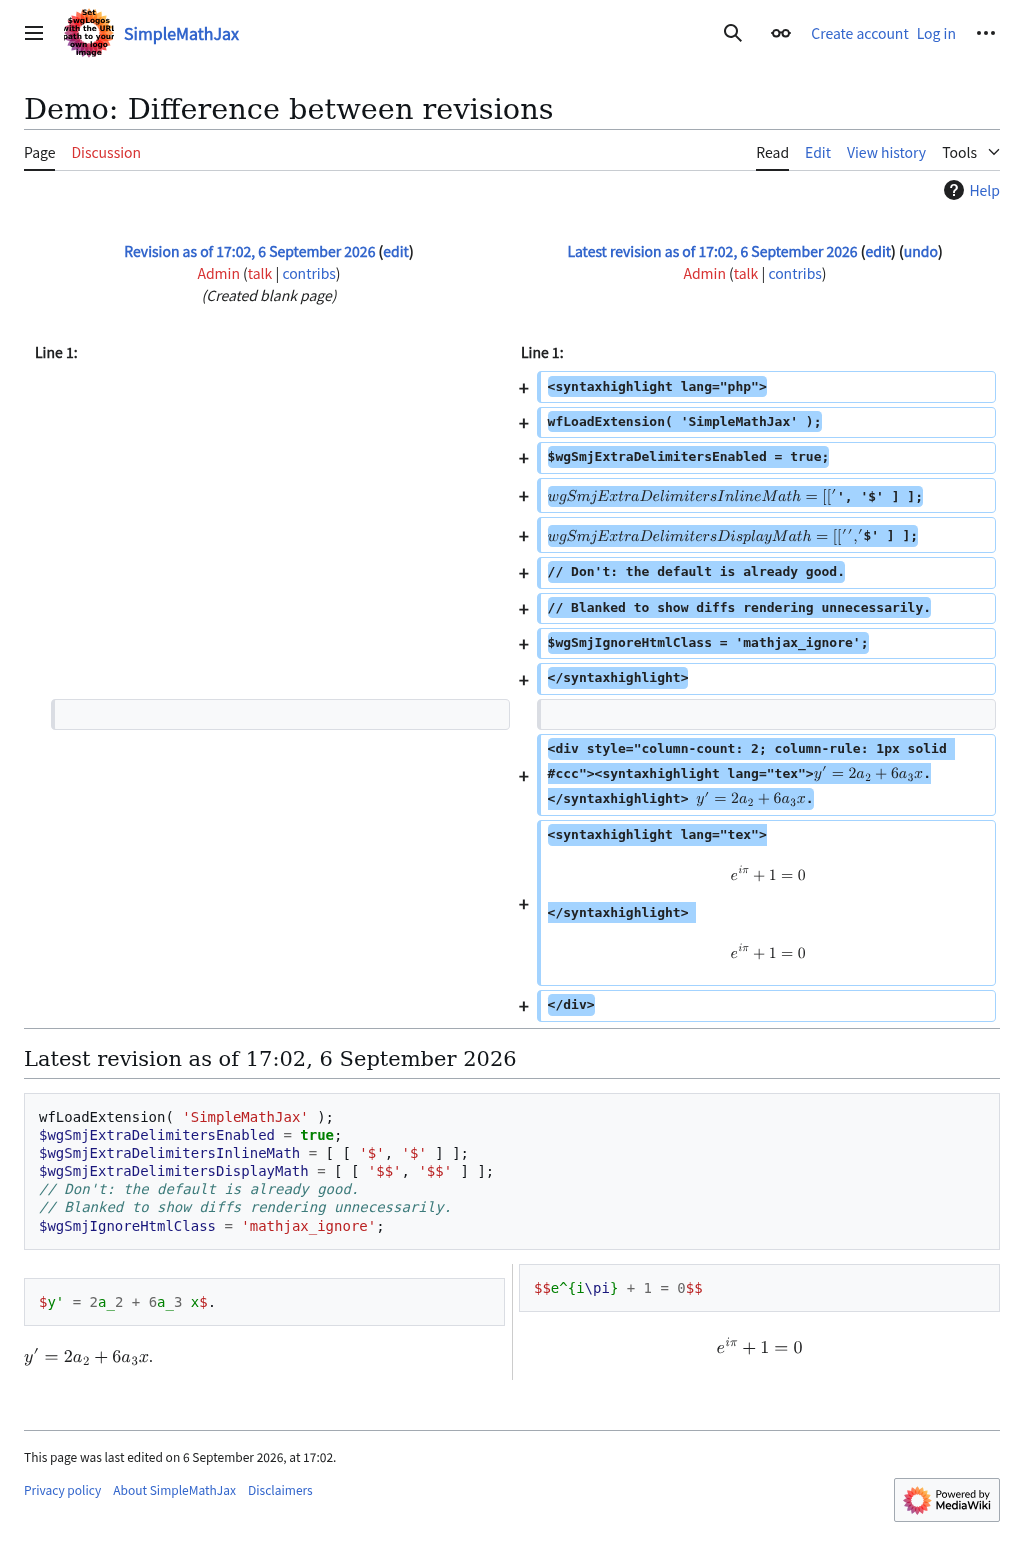
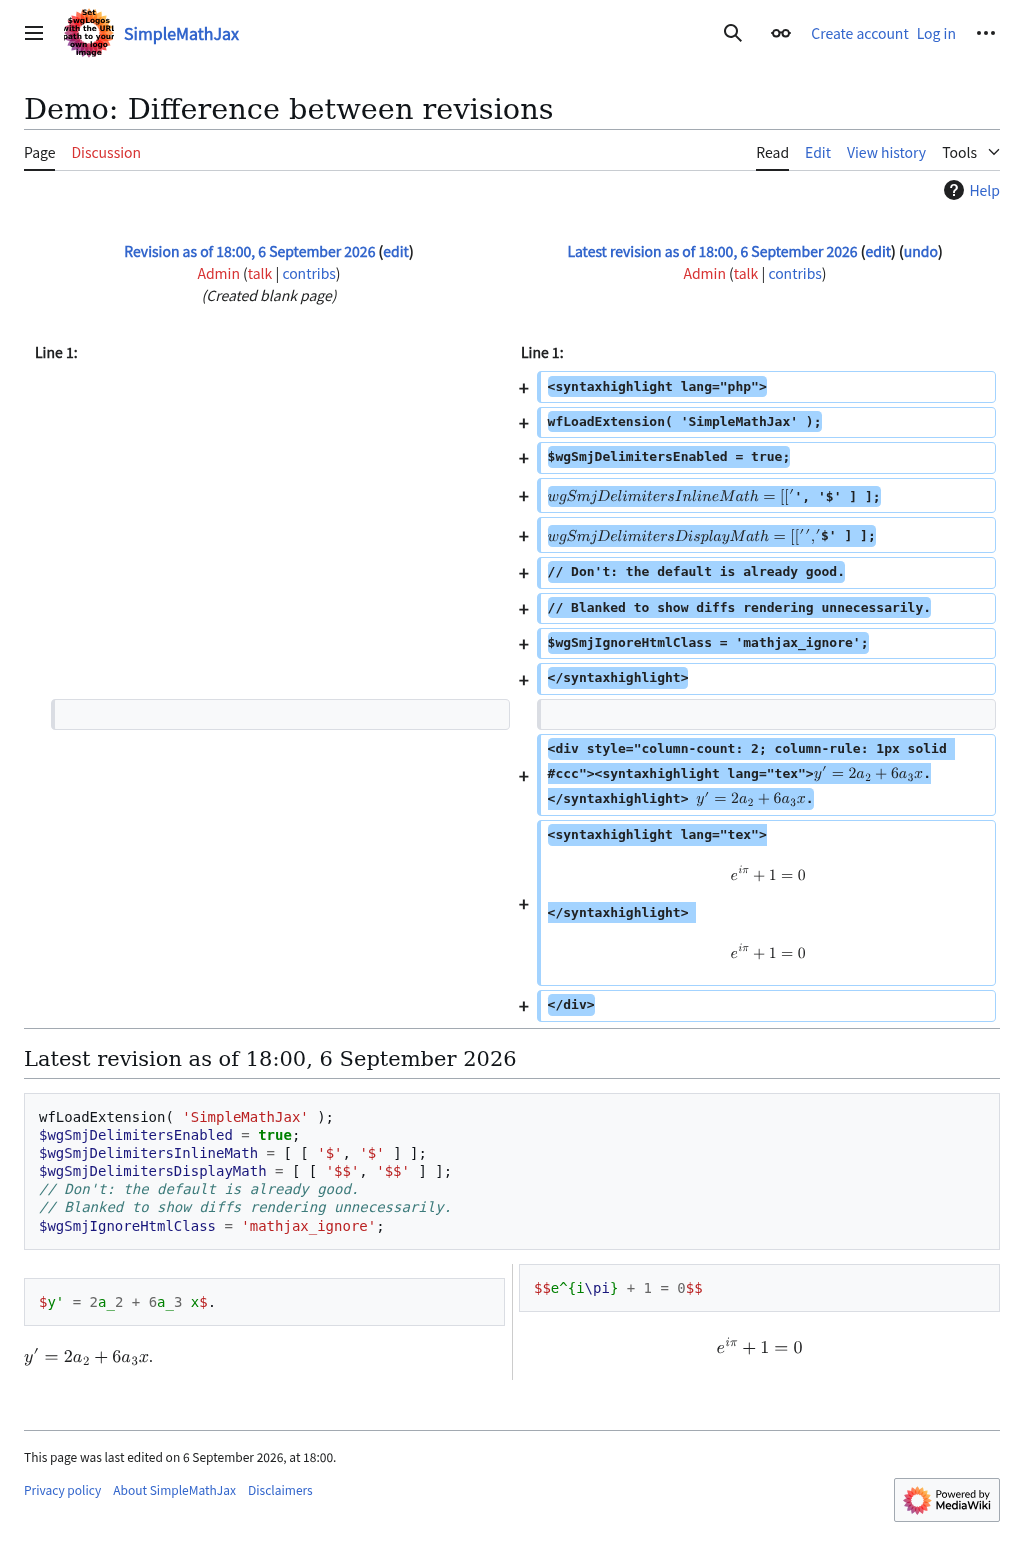
Rename $wgSmjExtraDelimiters* -> $wgSmjDelimiters*
Shorter without colliding with the old pre-1.0.0 $wgSmjExtraInlineMath
name (which $wgSmjDelimitersInlineMath doesn't, unlike alternatives
that kept the 'Extra' + bare 'InlineMath'/'DisplayMath' combination).
All three keep the same $wgSmjDelimiters* prefix for grouping.

Updates extension.json, Hooks.php, ext.SimpleMathJax.js,
RevisionOverridesTest.php, demos.yaml, README.md, and
docs/{configuration,mig-1.0,development}.md; regenerates the affected
demo screenshots.

diff --git a/resources/ext.SimpleMathJax.js b/resources/ext.SimpleMathJax.js
@@ -1,11 +1,11 @@
 mw.hook( 'wikipage.content' ).add( function ( $content ) {
 window.MathJax = {
   tex: {
-    inlineMath: mw.config.get('wgSmjExtraDelimitersInlineMath').concat([['[math]','[/math]']]),
-    displayMath: mw.config.get('wgSmjExtraDelimitersDisplayMath'),
+    inlineMath: mw.config.get('wgSmjDelimitersInlineMath').concat([['[math]','[/math]']]),
+    displayMath: mw.config.get('wgSmjDelimitersDisplayMath'),
     processEnvironments: true,
-    processRefs: mw.config.get('wgSmjExtraDelimitersEnabled'),
-    processEscapes: mw.config.get('wgSmjExtraDelimitersEnabled'),
+    processRefs: mw.config.get('wgSmjDelimitersEnabled'),
+    processEscapes: mw.config.get('wgSmjDelimitersEnabled'),
     packages: mw.config.exists('smjPreloadChem') ? {'[+]': ['autoload','mhchem']} : {'[+]': ['autoload']},
     macros: {
       AA: "{\u00c5}",
@@ -125,7 +125,7 @@ window.MathJax = {
     load: ['ui/safe','[tex]/autoload'].concat(mw.config.exists('smjPreloadChem') ? ['[tex]/mhchem'] : [])
   },
   startup: {
-    elements: mw.config.get('wgSmjExtraDelimitersEnabled') ? null : ["span.smj-container"],
+    elements: mw.config.get('wgSmjDelimitersEnabled') ? null : ["span.smj-container"],
     pageReady: () => {
       return MathJax.startup.defaultPageReady().then(() => {
         document.querySelectorAll("span.smj-container > .MathJax").forEach((mjx) => {

diff --git a/includes/Hooks.php b/includes/Hooks.php
@@ -17,16 +17,16 @@ class Hooks {
 
 	public static function onParserFirstCallInit( Parser $parser ) {
 		global $wgOut, $wgSmjCdnEnabled, $wgSmjCdnVersion, $wgSmjEnableMenu,
-		$wgSmjExtraDelimitersEnabled, $wgSmjExtraDelimitersInlineMath, $wgSmjExtraDelimitersDisplayMath,
+		$wgSmjDelimitersEnabled, $wgSmjDelimitersInlineMath, $wgSmjDelimitersDisplayMath,
 		$wgSmjIgnoreHtmlClass, $wgSmjScale,
 		$wgSmjAllowedAttributes, $wgSmjRevisionOverrides;
 
 		$config = [
 			"wgSmjCdnEnabled"                  => $wgSmjCdnEnabled,
 			"wgSmjCdnVersion"                  => $wgSmjCdnVersion,
-			"wgSmjExtraDelimitersEnabled"      => $wgSmjExtraDelimitersEnabled,
-			"wgSmjExtraDelimitersInlineMath"   => $wgSmjExtraDelimitersInlineMath,
-			"wgSmjExtraDelimitersDisplayMath"  => $wgSmjExtraDelimitersDisplayMath,
+			"wgSmjDelimitersEnabled"      => $wgSmjDelimitersEnabled,
+			"wgSmjDelimitersInlineMath"   => $wgSmjDelimitersInlineMath,
+			"wgSmjDelimitersDisplayMath"  => $wgSmjDelimitersDisplayMath,
 			"wgSmjIgnoreHtmlClass"             => $wgSmjIgnoreHtmlClass,
 			"wgSmjScale"                       => $wgSmjScale,
 			"wgSmjEnableMenu"                  => $wgSmjEnableMenu,
@@ -37,7 +37,7 @@ class Hooks {
 		$config = self::applyRevisionOverrides( $config, $wgSmjRevisionOverrides, $articlerev );
 
 		$clientConfigVars = [ "wgSmjCdnEnabled", "wgSmjCdnVersion",
-			"wgSmjExtraDelimitersEnabled", "wgSmjExtraDelimitersInlineMath", "wgSmjExtraDelimitersDisplayMath",
+			"wgSmjDelimitersEnabled", "wgSmjDelimitersInlineMath", "wgSmjDelimitersDisplayMath",
 			"wgSmjIgnoreHtmlClass", "wgSmjScale", "wgSmjEnableMenu" ];
 		foreach ( $clientConfigVars as $varname ) {
 			$wgOut->addJsConfigVars( $varname, $config[$varname] );
@@ -45,11 +45,11 @@ class Hooks {
 
 		self::$allowedAttributes =
 			is_array( $config["wgSmjAllowedAttributes"] ) ? $config["wgSmjAllowedAttributes"] : [];
-		self::$extraDelimitersEnabled = (bool)$config["wgSmjExtraDelimitersEnabled"];
+		self::$extraDelimitersEnabled = (bool)$config["wgSmjDelimitersEnabled"];
 		self::$extraDelimitersInlineMath =
-			is_array( $config["wgSmjExtraDelimitersInlineMath"] ) ? $config["wgSmjExtraDelimitersInlineMath"] : [];
+			is_array( $config["wgSmjDelimitersInlineMath"] ) ? $config["wgSmjDelimitersInlineMath"] : [];
 		self::$extraDelimitersDisplayMath =
-			is_array( $config["wgSmjExtraDelimitersDisplayMath"] ) ? $config["wgSmjExtraDelimitersDisplayMath"] : [];
+			is_array( $config["wgSmjDelimitersDisplayMath"] ) ? $config["wgSmjDelimitersDisplayMath"] : [];
 		self::$ignoreHtmlClass =
 			is_string( $config["wgSmjIgnoreHtmlClass"] ) ? $config["wgSmjIgnoreHtmlClass"] : '';
 

diff --git a/tests/RevisionOverridesTest.php b/tests/RevisionOverridesTest.php
@@ -17,7 +17,7 @@ function assert_same( $name, $expected, $actual ) {
 	echo '  actual:   ' . var_export( $actual, true ) . "\n";
 }
 
-$baseConfig = [ 'wgSmjScale' => 1, 'wgSmjCdnEnabled' => true, 'wgSmjExtraDelimitersEnabled' => false ];
+$baseConfig = [ 'wgSmjScale' => 1, 'wgSmjCdnEnabled' => true, 'wgSmjDelimitersEnabled' => false ];
 assert_same(
 	'applyRevisionOverrides is a no-op with no overrides configured',
 	$baseConfig,
@@ -35,7 +35,7 @@ assert_same(
 
 assert_same(
 	'applyRevisionOverrides replaces a top-level key inside its range',
-	[ 'wgSmjScale' => 2, 'wgSmjCdnEnabled' => true, 'wgSmjExtraDelimitersEnabled' => false ],
+	[ 'wgSmjScale' => 2, 'wgSmjCdnEnabled' => true, 'wgSmjDelimitersEnabled' => false ],
 	Hooks::applyRevisionOverrides(
 		$baseConfig,
 		[ [ 'max' => 50000, 'wgSmjScale' => 2 ] ],
@@ -54,10 +54,10 @@ assert_same(
 
 assert_same(
 	'applyRevisionOverrides sets an unrelated flat key without touching the rest',
-	[ 'wgSmjScale' => 1, 'wgSmjCdnEnabled' => true, 'wgSmjExtraDelimitersEnabled' => true ],
+	[ 'wgSmjScale' => 1, 'wgSmjCdnEnabled' => true, 'wgSmjDelimitersEnabled' => true ],
 	Hooks::applyRevisionOverrides(
 		$baseConfig,
-		[ [ 'min' => 1, 'max' => 50000, 'wgSmjExtraDelimitersEnabled' => true ] ],
+		[ [ 'min' => 1, 'max' => 50000, 'wgSmjDelimitersEnabled' => true ] ],
 		25000
 	)
 );

diff --git a/docs/mig-1.0.md b/docs/mig-1.0.md
@@ -14,10 +14,10 @@ the old names are no longer read in 1.0.0.
 
 > ⚠ **This is not a pure rename.** Two defaults actually flip:
 > - Bare `$...$`/`$$...$$` math scanning now defaults to *off* (see
->   `$wgSmjExtraDelimitersEnabled` below). If you never explicitly set
+>   `$wgSmjDelimitersEnabled` below). If you never explicitly set
 >   `$wgSmjDirectMathJax`/`$wgSmjExtraInlineMath`/`$wgSmjDisplayMath` and
 >   relied on their old default (`'full'`), those formulas **stop
->   rendering** unless you add `$wgSmjExtraDelimitersEnabled = true`.
+>   rendering** unless you add `$wgSmjDelimitersEnabled = true`.
 
 ### Renamed only
 
@@ -101,11 +101,11 @@ five — e.g. `[ 'class', 'title' ]` covers the common case of a CSS styling
 hook plus a hover tooltip, without carrying over `id` (which can collide
 with other elements on the page).
 
-### `$wgSmjDirectMathJax` / `$wgSmjDisplayMath` / `$wgSmjExtraInlineMath` → `$wgSmjExtraDelimiters*`
+### `$wgSmjDirectMathJax` / `$wgSmjDisplayMath` / `$wgSmjExtraInlineMath` → `$wgSmjDelimiters*`
 
 These three settings become three differently-named flat settings —
-`$wgSmjExtraDelimitersEnabled`, `$wgSmjExtraDelimitersInlineMath`,
-`$wgSmjExtraDelimitersDisplayMath` — and the `"full"`/`"env"`/`"none"`
+`$wgSmjDelimitersEnabled`, `$wgSmjDelimitersInlineMath`,
+`$wgSmjDelimitersDisplayMath` — and the `"full"`/`"env"`/`"none"`
 three-way mode collapses into a single boolean (`Enabled`).
 **The `"env"` mode is gone** — it used to let you turn `\ref`/escape
 handling on or off separately, but turning escapes off only made stray
@@ -115,7 +115,7 @@ reason to pick it over `"full"`. It's folded into `Enabled`.
 
 **The default also flips, from on to off.** `$wgSmjDirectMathJax` used to
 default to `'full'` (bare `$...$` math worked out of the box).
-`$wgSmjExtraDelimitersEnabled`'s default is now `false` — only
+`$wgSmjDelimitersEnabled`'s default is now `false` — only
 `<math>`/`<chem>` tags work out of the box, matching this extension's
 original contract ("TeX between `<math>` and `</math>`"). This is a real
 behavior change, not just a rename: **if you never touched these settings,
@@ -123,20 +123,20 @@ you are affected.**
 
 ```diff
 - // (nothing set — relied on the old default, 'full')
-+ $wgSmjExtraDelimitersEnabled = true;   // keep bare $...$/$$...$$ working after the upgrade
++ $wgSmjDelimitersEnabled = true;   // keep bare $...$/$$...$$ working after the upgrade
 ```
 
 ```diff
 - $wgSmjDirectMathJax = 'full';
-+ $wgSmjExtraDelimitersEnabled = true;
++ $wgSmjDelimitersEnabled = true;
 ```
 
 ```diff
 - $wgSmjExtraInlineMath = [ [ '$', '$' ] ];
 - $wgSmjDisplayMath = [ [ '$$', '$$' ] ];
-+ $wgSmjExtraDelimitersEnabled = true;
-+ $wgSmjExtraDelimitersInlineMath = [ [ '$', '$' ] ];
-+ $wgSmjExtraDelimitersDisplayMath = [ [ '$$', '$$' ] ];
++ $wgSmjDelimitersEnabled = true;
++ $wgSmjDelimitersInlineMath = [ [ '$', '$' ] ];
++ $wgSmjDelimitersDisplayMath = [ [ '$$', '$$' ] ];
 ```
 
 ```diff
@@ -146,7 +146,7 @@ you are affected.**
 
 ```diff
 - $wgSmjDirectMathJax = 'env';
-+ $wgSmjExtraDelimitersEnabled = true;   // \ref and escapes now come along too — fine for most sites
++ $wgSmjDelimitersEnabled = true;   // \ref and escapes now come along too — fine for most sites
 ```
 
 ### If `$wgSmjRevisionOverrides` overrode `$wgSmjDirectMathJax`
@@ -157,7 +157,7 @@ dot path is needed:
 ```diff
   $wgSmjRevisionOverrides = [
 -     [ 'upto' => 2000000, 'wgSmjDirectMathJax' => 'none' ],
-+     [ 'max' => 2000000, 'wgSmjExtraDelimitersEnabled' => false ],
++     [ 'max' => 2000000, 'wgSmjDelimitersEnabled' => false ],
   ];
 ```
 
@@ -173,10 +173,10 @@ dot path is needed:
    (list) — `[]` for the old `false`, or list the attributes you want to
    preserve for the old `true` behavior.
 3. **If you want bare `$...$`/`$$...$$` math to keep working**, add
-   `$wgSmjExtraDelimitersEnabled = true` explicitly — this is now required
+   `$wgSmjDelimitersEnabled = true` explicitly — this is now required
    even if you never set `$wgSmjDirectMathJax` before, since the default
    flipped from on to off. If you used `$wgSmjDisplayMath`/`$wgSmjExtraInlineMath`,
-   rename them to `$wgSmjExtraDelimitersDisplayMath`/`$wgSmjExtraDelimitersInlineMath`.
+   rename them to `$wgSmjDelimitersDisplayMath`/`$wgSmjDelimitersInlineMath`.
    If you used `'env'`, be aware it now behaves like `'full'`.
 4. If `$wgSmjConfigByRevision` overrode `$wgSmjDirectMathJax` or another
    renamed setting, just use its new flat key name — no dot path needed.

diff --git a/docs/configuration.md b/docs/configuration.md
@@ -14,9 +14,9 @@ and examples. Upgrading from before 1.0.0? See the
 | `$wgSmjCdnVersion`       | `'4'` | MathJax version to load from the CDN |
 | `$wgSmjScale`            | `1` | `MathJax.chtml.scale` |
 | `$wgSmjEnableMenu`       | `true` | `MathJax.options.enableMenu` |
-| `$wgSmjExtraDelimitersEnabled` | `false` | Whether to also scan for bare delimiters (e.g. `$...$`) outside `<math>`/`<chem>` |
-| `$wgSmjExtraDelimitersInlineMath` | `[]` | Inline math delimiter pairs, e.g. `[['$','$']]` |
-| `$wgSmjExtraDelimitersDisplayMath` | `[]` | Display math delimiter pairs, e.g. `[['$$','$$']]` |
+| `$wgSmjDelimitersEnabled` | `false` | Whether to also scan for bare delimiters (e.g. `$...$`) outside `<math>`/`<chem>` |
+| `$wgSmjDelimitersInlineMath` | `[]` | Inline math delimiter pairs, e.g. `[['$','$']]` |
+| `$wgSmjDelimitersDisplayMath` | `[]` | Display math delimiter pairs, e.g. `[['$$','$$']]` |
 | `$wgSmjAllowedAttributes` | `[]` | List of generic HTML attributes to carry over to the output `<span>` |
 | `$wgSmjIgnoreHtmlClass`  | `'mathjax_ignore\|comment\|`<br>`diff-(context\|`<br>`addedline\|deletedline)'` | `MathJax.options.ignoreHtmlClass` |
 | `$wgSmjRevisionOverrides` | `[]` | Switch the configuration according to the article's revision |
@@ -65,11 +65,11 @@ wfLoadExtension( 'SimpleMathJax' );
 $wgSmjEnableMenu = false;
 ```
 
-### `$wgSmjExtraDelimitersEnabled`
+### `$wgSmjDelimitersEnabled`
 
-By default, `$wgSmjExtraDelimitersEnabled` is `false`, so only TeX wrapped in
+By default, `$wgSmjDelimitersEnabled` is `false`, so only TeX wrapped in
 `<math>` or `<chem>` is recognized — bare `$...$`/`$$...$$` delimiters are
-left as plain text, and `$wgSmjExtraDelimitersInlineMath`/`DisplayMath` go
+left as plain text, and `$wgSmjDelimitersInlineMath`/`DisplayMath` go
 unused (as does [`$wgSmjIgnoreHtmlClass`](#wgsmjignorehtmlclass)'s
 diff/comment protection, since there's nothing for it to protect against).
 Set `Enabled` to `true` and list the delimiter pairs yourself to also
@@ -77,9 +77,9 @@ recognize bare delimiters:
 
 ```php
 wfLoadExtension( 'SimpleMathJax' );
-$wgSmjExtraDelimitersEnabled = true;
-$wgSmjExtraDelimitersInlineMath = [ [ '$', '$' ] ];
-$wgSmjExtraDelimitersDisplayMath = [ [ '$$', '$$' ] ];
+$wgSmjDelimitersEnabled = true;
+$wgSmjDelimitersInlineMath = [ [ '$', '$' ] ];
+$wgSmjDelimitersDisplayMath = [ [ '$$', '$$' ] ];
 ```
 
 ### `$wgSmjAllowedAttributes`
@@ -114,7 +114,7 @@ class, if `class` is allowed via
 [`$wgSmjAllowedAttributes`](#wgsmjallowedattributes) (empty by default).
 `comment` and `diff-(context|addedline|deletedline)` match what MediaWiki
 puts on edit-summary and diff-table elements, protecting them — though only
-if [`$wgSmjExtraDelimitersEnabled`](#wgsmjextradelimitersenabled) is on (see
+if [`$wgSmjDelimitersEnabled`](#wgsmjextradelimitersenabled) is on (see
 [Rendering internals](development.md#rendering-internals) for why).
 
 **Don't** replace the whole pattern with just your own class when extra
@@ -122,7 +122,7 @@ delimiters are on — the default's diff/comment protection goes with it:
 
 ```php
 wfLoadExtension( 'SimpleMathJax' );
-$wgSmjExtraDelimitersEnabled = true;
+$wgSmjDelimitersEnabled = true;
 // Don't: replaces the whole pattern, so it loses diff/comment protection.
 $wgSmjIgnoreHtmlClass = 'my_custom_class';
 ```
@@ -133,7 +133,7 @@ individual `<math class="my_custom_class">` elements:
 
 ```php
 wfLoadExtension( 'SimpleMathJax' );
-$wgSmjExtraDelimitersEnabled = true;
+$wgSmjDelimitersEnabled = true;
 // Do, if you really need it: extends the default pattern instead of replacing it.
 $wgSmjIgnoreHtmlClass = 'mathjax_ignore|comment|diff-(context|addedline|deletedline)|my_custom_class';
 $wgSmjAllowedAttributes = [ 'class' ];
@@ -162,10 +162,10 @@ is an array whose other keys are the overrides to apply, plus:
 
 ```php
 wfLoadExtension( 'SimpleMathJax' );
-$wgSmjExtraDelimitersEnabled = false;    // To match the preview with the actual rendering, write the latest settings in the base case
+$wgSmjDelimitersEnabled = false;    // To match the preview with the actual rendering, write the latest settings in the base case
 $wgSmjRevisionOverrides = [
-	[ 'max' => 50000, 'wgSmjExtraDelimitersEnabled' => true ],
-	[ 'min' => 50001, 'max' => 60000, 'wgSmjExtraDelimitersEnabled' => false ],
+	[ 'max' => 50000, 'wgSmjDelimitersEnabled' => true ],
+	[ 'min' => 50001, 'max' => 60000, 'wgSmjDelimitersEnabled' => false ],
 ];
 ```
 

diff --git a/README.md b/README.md
@@ -27,9 +27,9 @@ wfLoadExtension( 'SimpleMathJax' );
 | `$wgSmjCdnVersion`       | `'4'`                       | MathJax version to load from the CDN | `'4.1.3'`                  |
 | `$wgSmjScale`            | `1`                         | `MathJax.chtml.scale`              | `1.5`                         |
 | `$wgSmjEnableMenu`       | `true`                      | `MathJax.options.enableMenu`       | `false`                       |
-| `$wgSmjExtraDelimitersEnabled` | `false`               | Whether to also scan for bare delimiters (e.g. `$...$`) outside `<math>`/`<chem>` | `true` |
-| `$wgSmjExtraDelimitersInlineMath` | `[]`              | Inline math delimiter pairs | `[['$','$']]` |
-| `$wgSmjExtraDelimitersDisplayMath` | `[]`             | Display math delimiter pairs | `[['$$','$$']]` |
+| `$wgSmjDelimitersEnabled` | `false`               | Whether to also scan for bare delimiters (e.g. `$...$`) outside `<math>`/`<chem>` | `true` |
+| `$wgSmjDelimitersInlineMath` | `[]`              | Inline math delimiter pairs | `[['$','$']]` |
+| `$wgSmjDelimitersDisplayMath` | `[]`             | Display math delimiter pairs | `[['$$','$$']]` |
 | `$wgSmjAllowedAttributes` | `[]` | List of generic HTML attributes to carry over to the output `<span>` | `['class', 'title']` |
 | `$wgSmjIgnoreHtmlClass`  | `'mathjax_ignore\|comment\|`<br>`diff-(context\|`<br>`addedline\|deletedline)'` | `MathJax.options.ignoreHtmlClass`  | `'mathjax_ignore\|comment\|`<br>`diff-(context\|`<br>`addedline\|deletedline)\|my_custom_class'` |
 | `$wgSmjRevisionOverrides` | `[]` | Switch the configuration according to the article's revision  | `[['max'=>1048576,`<br>`'wgSmjScale'=>1.5]]` |

diff --git a/docs/development.md b/docs/development.md
@@ -61,7 +61,7 @@ differently.
 function without a MediaWiki bootstrap — see `tests/RevisionOverridesTest.php`.
 
 **`ext.SimpleMathJax.js` always adds `['[math]','[/math]']` to MathJax's
-`inlineMath` list, regardless of `$wgSmjExtraDelimiters*`.** That's
+`inlineMath` list, regardless of `$wgSmjDelimiters*`.** That's
 SimpleMathJax's own internal marker for the `<math>`/`<chem>` output
 `renderTex()` wraps TeX in (see above), not wikitext syntax an editor would
 type themselves — MathJax needs it in its delimiter list to typeset that
@@ -69,7 +69,7 @@ output at all, independently of whatever bare delimiters the admin
 configured for extra-delimiter scanning.
 
 **`$wgSmjIgnoreHtmlClass`'s diff/comment protection only matters with
-`$wgSmjExtraDelimitersEnabled` on.** `$wgSmjExtraDelimitersEnabled` also
+`$wgSmjDelimitersEnabled` on.** `$wgSmjDelimitersEnabled` also
 decides how much of the page MathJax scans: off (the default), the JS
 module's `elements` option restricts it to its own `<span
 class="smj-container">` output, so a diff or comment is never a target
